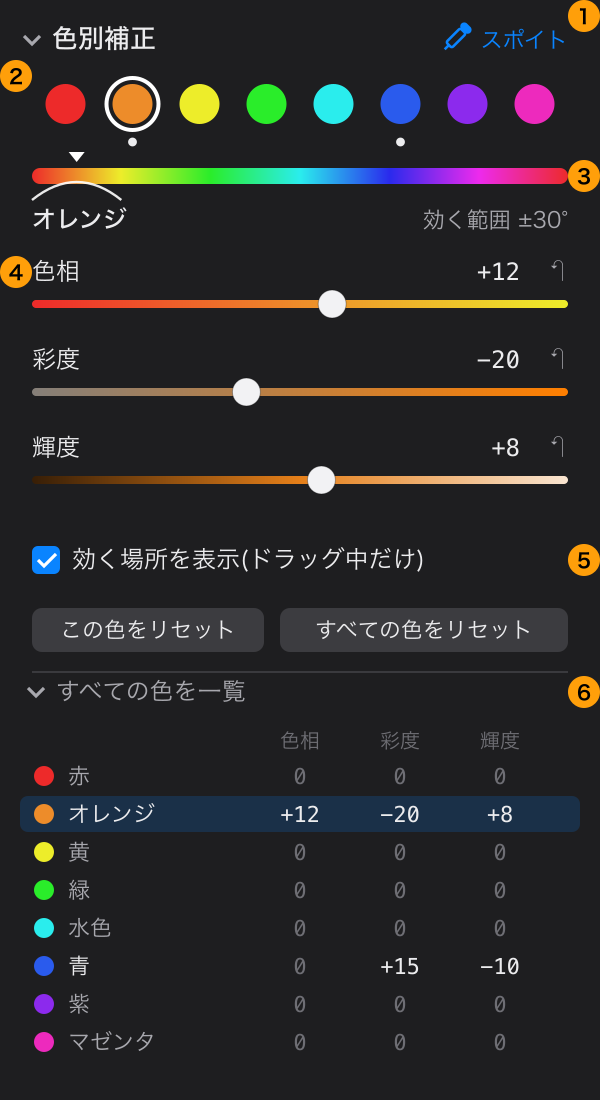
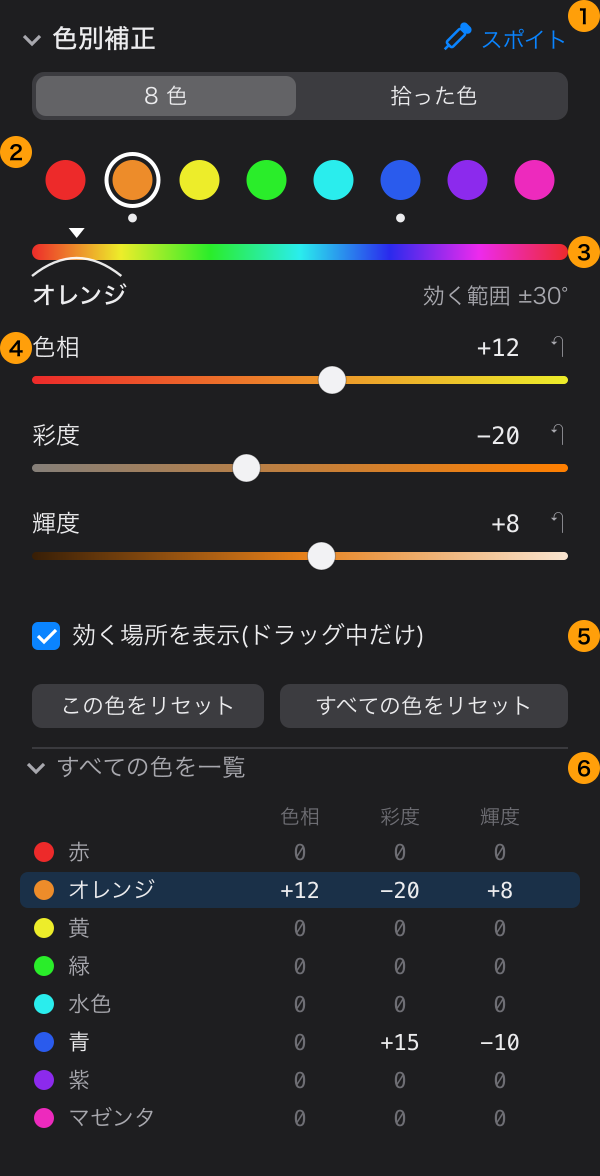
色の詳細補正の設計に「拾った色」の補正を足す
オーナーの例「桜の花びらだけピンク味を強くしたい」は、8 色の帯では扱えない(淡い色は色相が定まらないので効かせない決まりで、
同じ色相の濃い物だけが変わる)。スポイトで拾った色を中心に、色相の幅と淡さの範囲で効く場所を決め、
「色を足す」で白に近い色にも色を付ける補正を A-2 として規定し、モックを足した。8 色の画面には切り替えを足した。

Changed region(s): [[0.0, 0.0, 1.0, 0.68], [0.03, 0.6491, 0.99, 0.9582], [0.96, 0.0, 1.0, 0.0309]]

diff --git a/scripts/mock_color.py b/scripts/mock_color.py
@@ -48,6 +48,36 @@ def button(x, y, w, label, primary=False):
     return (f'<rect x="{x}" y="{y}" width="{w}" height="22" rx="5" fill="{fill}"/>'
             + text(x + w / 2, y + 15, label, 11, "#fff" if primary else TEXT, anchor="middle"))
 
+def segmented(y, labels, sel):
+    """2〜4 個の切り替え(macOS のセグメントに寄せる)"""
+    sw = (W - 32) / len(labels)
+    out = [f'<rect x="16" y="{y}" width="{W-32}" height="24" rx="6" fill="#3c3c40"/>']
+    for k, label in enumerate(labels):
+        x = 16 + sw * k
+        if k == sel:
+            out.append(f'<rect x="{x+2}" y="{y+2}" width="{sw-4}" height="20" rx="5" fill="#636366"/>')
+        out.append(text(x + sw / 2, y + 16, label, 11, TEXT, anchor="middle"))
+    return "".join(out)
+
+def pipette(x, y, color=ACCENT, scale=1.0):
+    """スポイト(斜めの管と、上のゴム球)"""
+    return (f'<g transform="translate({x} {y}) rotate(45) scale({scale})">'
+            f'<rect x="-2" y="-5" width="4" height="10" rx="1" fill="none" stroke="{color}" stroke-width="1.3"/>'
+            f'<path d="M0 5 l0 3" stroke="{color}" stroke-width="1.3"/>'
+            f'<rect x="-3.2" y="-9" width="6.4" height="4" rx="2" fill="{color}"/></g>')
+
+def range_slider(y, title, value, lo, hi, track=None):
+    """つまみが 2 つのスライダー(範囲を決める)"""
+    out = [text(16, y, title, 12), text(W - 40, y, value, 12, TEXT, anchor="end", mono=True),
+           text(W - 16, y, "↶", 12, TEXT2, anchor="end")]
+    ty = y + 12
+    out.append(f'<rect x="16" y="{ty-2}" width="{W-32}" height="4" rx="2" fill="{f"url(#{track})" if track else LINE}"/>')
+    x0, x1 = 16 + (W - 32) * lo, 16 + (W - 32) * hi
+    out.append(f'<rect x="{x0}" y="{ty-3}" width="{x1-x0}" height="6" rx="3" fill="none" stroke="{ACCENT}" stroke-width="1.5"/>')
+    for kx in (x0, x1):
+        out.append(f'<circle cx="{kx}" cy="{ty}" r="7" fill="#f2f2f4" stroke="#00000055" stroke-width="0.5"/>')
+    return "".join(out)
+
 def note(x, y, n):
     # 説明用の番号(モックの注記。実際の画面には出ない)
     return (f'<circle cx="{x}" cy="{y}" r="8" fill="#ff9f0a"/>' + text(x, y + 4, str(n), 10, "#000", 700, "middle"))
@@ -79,12 +109,11 @@ b = ["".join(defs)]
 y = 24
 b.append(header(y, "色別補正"))
 b.append(text(W - 16, y, "スポイト", 11, ACCENT, anchor="end"))
-# スポイト(斜めの管と、上のゴム球)
-b.append(f'<g transform="translate({W-72} {y-5}) rotate(45)">'
-         f'<rect x="-2" y="-5" width="4" height="10" rx="1" fill="none" stroke="{ACCENT}" stroke-width="1.3"/>'
-         f'<path d="M0 5 l0 3" stroke="{ACCENT}" stroke-width="1.3"/>'
-         f'<rect x="-3.2" y="-9" width="6.4" height="4" rx="2" fill="{ACCENT}"/></g>')
+b.append(pipette(W - 72, y - 5))
 b.append(note(W - 8, y - 16, 1))
+SHIFT = 38
+b.append(segmented(36, ["8 色", "拾った色"], 0))
+b.append(f'<g transform="translate(0 {SHIFT})">')
 
 # 色のチップ 8 個
 y = 52
@@ -147,8 +176,92 @@ for k, (name, h) in enumerate(BANDS):
     for j in range(3):
         v = vals.get(k, ("0", "0", "0"))[j]
         b.append(text(150 + j * 50, ry, v, 11, TEXT if v != "0" else TEXT3, anchor="middle", mono=True))
-h_a = y + 18 + 8 * 19 + 6
+b.append('</g>')
+h_a = y + 18 + 8 * 19 + 6 + SHIFT
 open(f"{OUT}/color-hsl-mock.svg", "w").write(frame(h_a, "".join(b), "色別補正のモック"))
+
+# ---------------------------------------------------------------- A2: 拾った色(桜の花びらの例)
+PICK_H, PICK_S = 340, 0.18          # 拾った色: 淡いピンク
+HUE_W, SAT_LO, SAT_HI = 20, 0.0, 0.40   # 効く範囲: 色相 ±20°、淡さ 0〜40
+b = ['<defs>'
+     f'<linearGradient id="addTrack"><stop offset="0" stop-color="{hsl(PICK_H, 0.15, 0.92)}"/>'
+     f'<stop offset="1" stop-color="{hsl(PICK_H, 0.85, 0.72)}"/></linearGradient>'
+     f'<linearGradient id="satRange"><stop offset="0" stop-color="{hsl(PICK_H, 0.05, 0.9)}"/>'
+     f'<stop offset="1" stop-color="{hsl(PICK_H, 0.95, 0.5)}"/></linearGradient>'
+     '</defs>']
+y = 24
+b.append(header(y, "色別補正"))
+b.append(segmented(36, ["8 色", "拾った色"], 1))
+b.append(note(W - 8, 30, 1))
+
+# 拾った色の一覧(写真ごとに 4 つまで)と、新しく拾うボタン
+y = 76
+tiles = [(PICK_H, PICK_S, "花びら"), (95, 0.55, "若葉")]
+for k, (hh, ss, label) in enumerate(tiles):
+    x = 16 + k * 66
+    if k == 0:
+        b.append(f'<rect x="{x-3}" y="{y-3}" width="62" height="56" rx="8" fill="none" stroke="#fff" stroke-width="2"/>')
+    b.append(f'<rect x="{x}" y="{y}" width="56" height="50" rx="6" fill="#2c2c30"/>')
+    b.append(f'<circle cx="{x+28}" cy="{y+19}" r="11" fill="{hsl(hh, ss, 0.86 if ss < 0.3 else 0.5)}" stroke="#ffffff33"/>')
+    b.append(text(x + 28, y + 44, label, 10, TEXT, anchor="middle"))
+x = 16 + 2 * 66
+b.append(f'<rect x="{x}" y="{y}" width="{W-16-x}" height="50" rx="6" fill="none" stroke="{ACCENT}" stroke-dasharray="4 3"/>')
+b.append(pipette(x + 26, y + 22, scale=1.3))
+b.append(text(x + 44, y + 22, "色を拾う", 11, ACCENT))
+b.append(text(x + 44, y + 37, "(4 つまで)", 10, TEXT3))
+b.append(note(8, y - 2, 2))
+
+# 効く範囲の図: 横が色相、縦が淡さ(上が淡い、下が濃い)。選んだ範囲を枠で、なめらかさを点線で示す
+y = 150
+gx, gw, gh = 16, W - 32, 110
+cells = []
+nx, ny = 72, 14
+for i in range(nx):
+    for j in range(ny):
+        hh = PICK_H - 180 + 360 * (i + 0.5) / nx   # 拾った色が横の真ん中に来るように並べる
+        sat = (j + 0.5) / ny
+        col = hsl(hh, sat * 0.95, 0.9 - 0.38 * sat)
+        cells.append(f'<rect x="{gx + gw*i/nx:.2f}" y="{y + gh*j/ny:.2f}" width="{gw/nx+0.6:.2f}" height="{gh/ny+0.6:.2f}" fill="{col}"/>')
+b.append(f'<g>{"".join(cells)}</g>')
+b.append(f'<rect x="{gx}" y="{y}" width="{gw}" height="{gh}" fill="none" stroke="#00000066"/>')
+def hx(deg): return gx + gw * ((deg - PICK_H + 180) % 360) / 360
+def sy(sat): return y + gh * sat
+x0, x1 = hx(PICK_H - HUE_W), hx(PICK_H + HUE_W)
+b.append(f'<rect x="{x0-7}" y="{sy(SAT_LO)}" width="{x1-x0+14}" height="{sy(SAT_HI+0.08)-sy(SAT_LO)}" rx="6" fill="none" '
+         f'stroke="#fff" stroke-dasharray="3 3" stroke-opacity="0.8"/>')
+b.append(f'<rect x="{x0}" y="{sy(SAT_LO)+1}" width="{x1-x0}" height="{sy(SAT_HI)-sy(SAT_LO)-1}" rx="4" fill="#ffffff22" stroke="#fff" stroke-width="1.6"/>')
+b.append(f'<circle cx="{hx(PICK_H)}" cy="{sy(PICK_S)}" r="5" fill="{hsl(PICK_H, PICK_S, 0.86)}" stroke="#000" stroke-width="1.2"/>')
+b.append(text(gx + 4, y + 12, "淡い", 10, "#333"))
+b.append(text(gx + 4, y + gh - 5, "濃い", 10, "#fff"))
+b.append(text(gx, y + gh + 14, "← 色相 →", 10, TEXT3))
+b.append(text(gx + gw, y + gh + 14, "枠の外(白い雲・濃い赤)には効かない", 9, TEXT3, anchor="end"))
+b.append(note(W - 8, y - 4, 3))
+
+y = 300
+b.append(text(16, y, "効く範囲", 11, TEXT3, 600))
+b.append(slider(y + 22, "色相の幅", "±20°", 0.33, neutral=0.0))
+b.append(range_slider(y + 66, "淡さ", "0 〜 40", SAT_LO, SAT_HI, "satRange"))
+b.append(slider(y + 110, "なめらかさ", "50", 0.5, neutral=0.5, edited=False))
+b.append(note(8, y + 18, 4))
+
+y = 460
+b.append(f'<line x1="16" y1="{y-16}" x2="{W-16}" y2="{y-16}" stroke="{LINE}"/>')
+b.append(text(16, y, "補正", 11, TEXT3, 600))
+b.append(slider(y + 22, "色を足す", "+30", 0.30, "addTrack", highlight=True))
+b.append(slider(y + 66, "彩度", "+10", 0.55))
+b.append(slider(y + 110, "色相", "0", 0.5, edited=False))
+b.append(slider(y + 154, "輝度", "0", 0.5, edited=False))
+b.append(note(8, y + 18, 5))
+
+y = 652
+b.append(f'<rect x="16" y="{y-11}" width="14" height="14" rx="3" fill="{ACCENT}"/>'
+         f'<path d="M19 {y-4} l3 3 l6 -6" stroke="#fff" stroke-width="1.6" fill="none"/>')
+b.append(text(36, y, "効く場所を表示(ドラッグ中だけ)", 12))
+y = 672
+b.append(button(16, y, 120, "スポイトで拾い直す"))
+b.append(button(144, y, 140, "この色の補正を消す"))
+h_c = y + 34
+open(f"{OUT}/color-point-mock.svg", "w").write(frame(h_c, "".join(b), "拾った色の補正のモック"))
 
 # ---------------------------------------------------------------- B: カラーグレーディング
 b = []
@@ -208,4 +321,4 @@ b.append(slider(y + 44, "バランス", "+10", 0.55))
 b.append(note(8, y - 4, 4))
 h_b = y + 44 + 34
 open(f"{OUT}/color-grading-mock.svg", "w").write(frame(h_b, "".join(b), "カラーグレーディングのモック"))
-print("ok", h_a, h_b)
+print("ok", h_a, h_b, h_c)

diff --git a/CLAUDE.md b/CLAUDE.md
@@ -351,7 +351,8 @@ README.md(利用者向けの説明)も合わせて更新する。
 - アプリ内チャット(AI をアプリに内蔵する。API キーを預かる形)は 2026-10-16 にオーナーが「一旦見送り」と判断。
   検討の内容・認証の流れ・ChatGPT 対応の考え方・再開するときの進め方は `docs/ai-in-app-chat.md`
 - AI から操作できないもの: 書き出し・写真を開く(アプリの表示を変える)。取り消しの履歴はアプリと rawdev とで別々
-- 色の詳細補正(色別補正 = HSL、カラーグレーディング)は 2026-10-30 に機能の規定と画面のモックまで作った(実装はまだ)。
+- 色の詳細補正(色別補正 = 8 色の帯と、スポイトで拾った淡い色も狙える「拾った色」、カラーグレーディング)は
+  2026-10-30 に機能の規定と画面のモックまで作った(実装はまだ)。
   `docs/color-grading-design.md`
 - スライダーを初期値に戻すのは右端の「↶」ボタンだけ。Lightroom のように名前のダブルクリックで戻す操作は無い
   (2026-10-07 にオーナーが「今は見送り」と判断)
